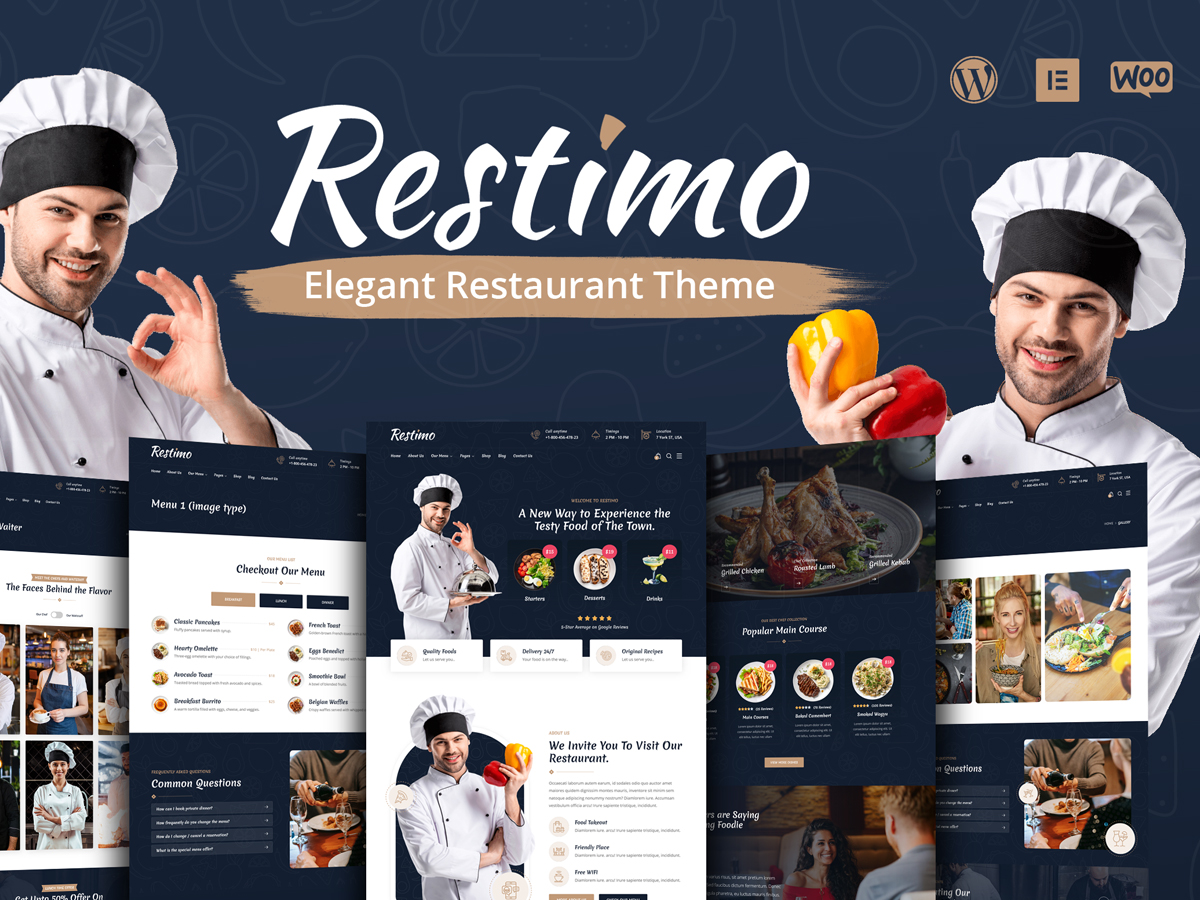
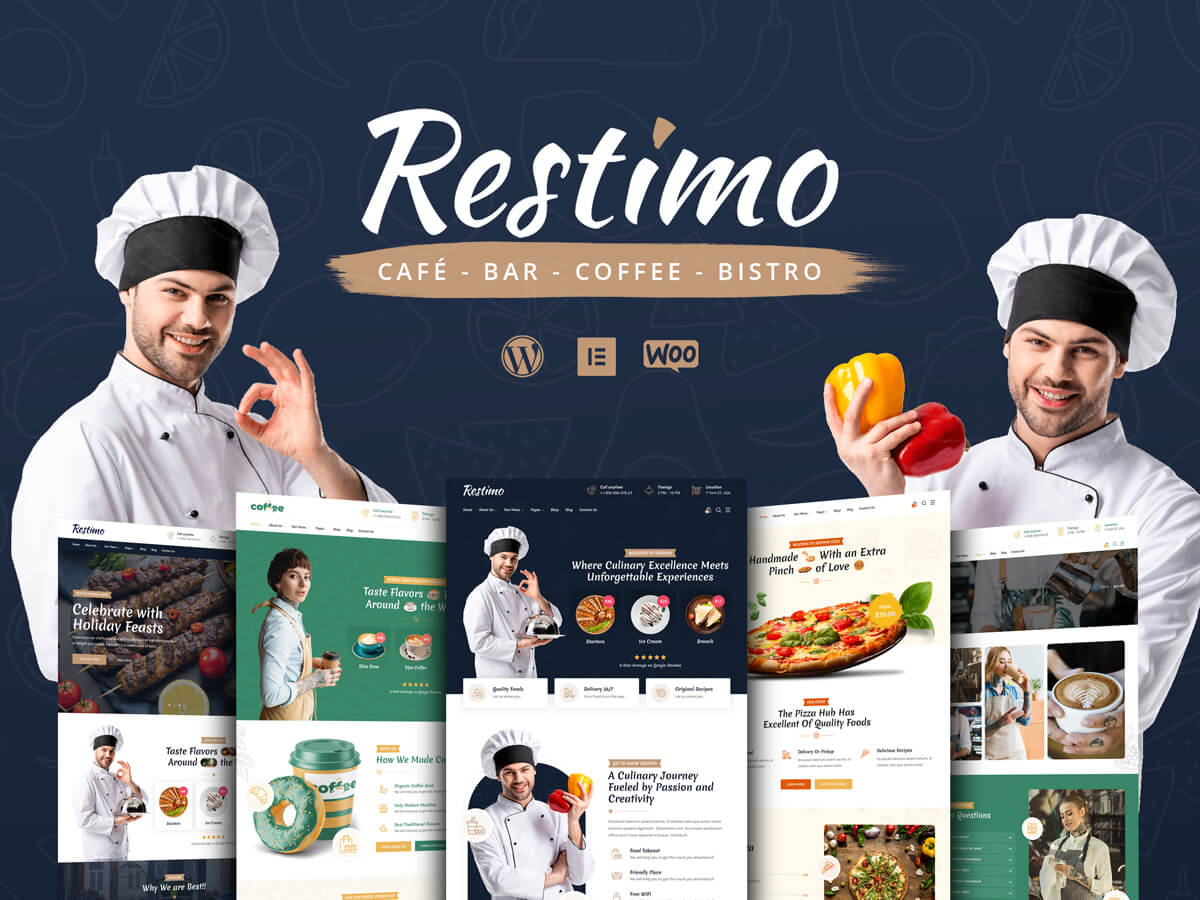
sdfsdf

diff --git a/style.css b/style.css
@@ -4,7 +4,7 @@ Theme Name: Restimo
 Theme URI: https://themeforest.net/item/restimo
 Author: XpertPoin8
 Author URI: https://xpertpoin8.com/
-Description: Restimo is the nice WordPress theme for Consulting and Finance Industry. Financial Advisors, Insurance Brokers, Accountants, Lawyers, Consultants. Restimo is easy to use, it provides everything you need to create great looking website. With Restimo you can impress your customer by it’s professional design and the interactivity. Restimo built with latest website technology to ensure your website is looks nice on desktop and mobile. Get Restimo now!
+Description: Restimo is the perfect WordPress theme for restaurants, cafes, and food services. Whether you're running a cozy café, a trendy bistro, or a gourmet restaurant, Restimo offers everything you need to create a stunning online presence. It's user-friendly and designed to help you showcase your culinary offerings with style and ease. With Restimo, you can captivate your diners with its elegant design and engaging features. Built with the latest web technologies, Restimo ensures your website looks fantastic on both desktop and mobile devices. Elevate your restaurant's online presence with Restimo today!
 Version: 1.2.3
 License: GNU General Public License v2+
 License URI: http://www.gnu.org/licenses/gpl-2.0.html

diff --git a/inc/backend/plugin-requires.php b/inc/backend/plugin-requires.php
@@ -11,16 +11,6 @@ function restimo_register_required_plugins() {
 	$protocol = is_ssl() ? 'https' : 'http';
 	$plugins = array(
 		array(
-			'name'               => esc_html__( 'Widget Importer & Exporter', 'restimo' ),
-			'slug'               => 'widget-importer-exporter',
-			'required'           => true,
-		),
-		array(
-			'name'               => esc_html__( 'Customizer Export/Import', 'restimo' ),
-			'slug'               => 'customizer-export-import',
-			'required'           => true,
-		),
-		array(
 			'name'               => esc_html__( 'Meta Box', 'restimo' ),
 			'slug'               => 'meta-box',
 			'required'           => true,
